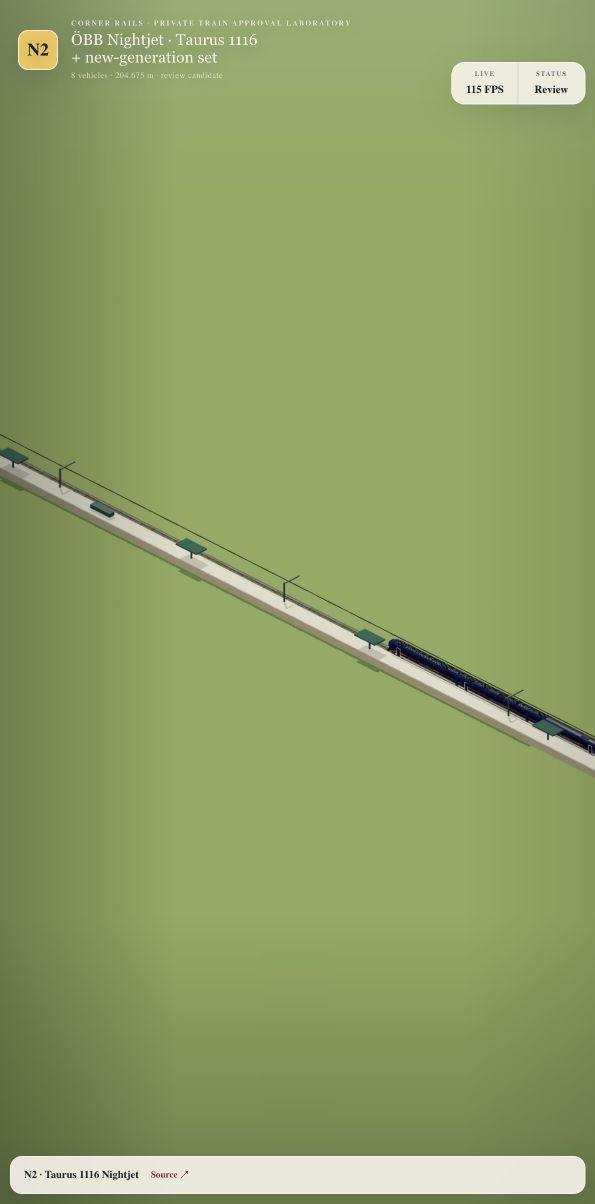
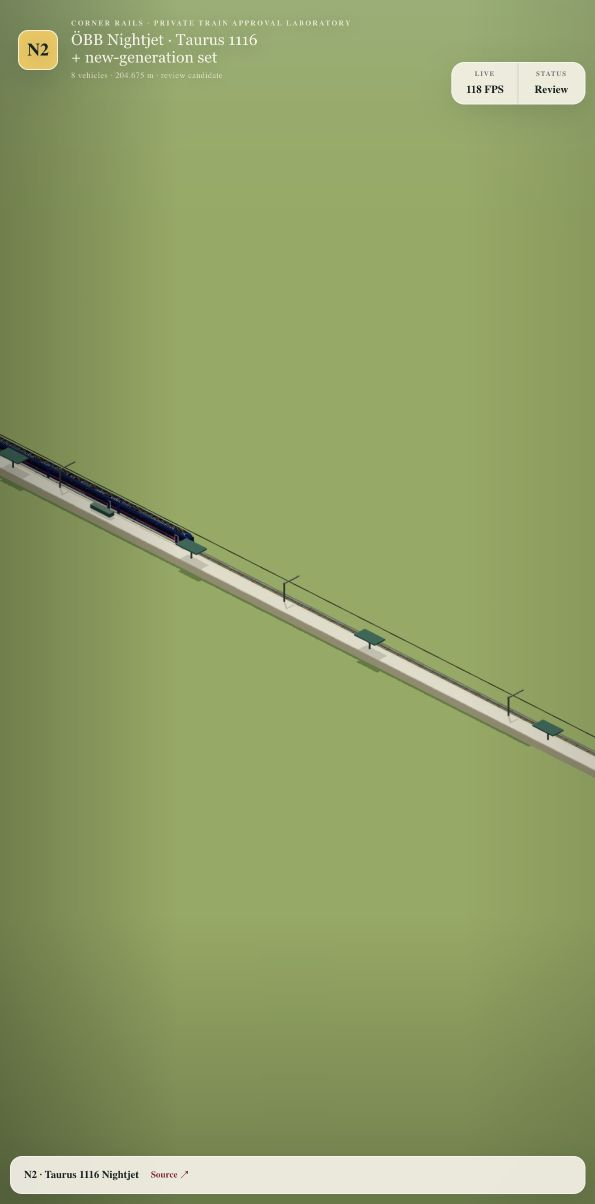
Correct Nightjet leading-end orientation

Changed region(s): [[0.6353, 0.5224, 1.0, 0.6453], [0.0, 0.3688, 0.3328, 0.461]]

diff --git a/tests/game.test.ts b/tests/game.test.ts
@@ -9,7 +9,7 @@ import {
   canPurchase,
   cleanStation,
   cleaningCost,
-  chooseTrainTravelDirection,
+  chooseTrainFormationOrientation,
   daylightFactor,
   debugState,
   isNight,
@@ -48,6 +48,7 @@ import {
 import {
   TRAIN_REVIEW_CANDIDATES,
   TRAIN_REVIEW_METRIC_SCALE,
+  trainReviewFormationRotation,
   trainReviewMotionPosition,
 } from "../app/game/trainReviewData";
 
@@ -436,9 +437,8 @@ describe("per-train Blender approval laboratory", () => {
     expect(trainReviewMotionPosition("stopping", 11)).toBe(0);
     expect(trainReviewMotionPosition("stopping", 17.99)).toBeGreaterThan(26);
     expect(trainReviewMotionPosition("pass", 3 + 1 / 60)).toBeGreaterThan(trainReviewMotionPosition("pass", 3));
-    expect(trainReviewMotionPosition("stopping", 0, -1)).toBe(27);
-    expect(trainReviewMotionPosition("stopping", 17.99, -1)).toBeLessThan(-26);
-    expect(trainReviewMotionPosition("pass", 3 + 1 / 60, -1)).toBeLessThan(trainReviewMotionPosition("pass", 3, -1));
+    expect(trainReviewFormationRotation("taurus")).toBe(0);
+    expect(trainReviewFormationRotation("cab-car")).toBe(Math.PI);
   });
 
   it("records user reference filenames without copying or embedding the images", async () => {
@@ -598,10 +598,10 @@ describe("per-train Blender approval laboratory", () => {
   });
 
   it("chooses and persists both future Nightjet leading ends deterministically", () => {
-    expect(chooseTrainTravelDirection("nightjet-new-generation", 0)[0]).toBe(1);
-    expect(chooseTrainTravelDirection("nightjet-new-generation", 999)[0]).toBe(-1);
-    expect(chooseTrainTravelDirection("nightjet-new-generation", 999)).toEqual(chooseTrainTravelDirection("nightjet-new-generation", 999));
-    expect(chooseTrainTravelDirection("nightjet-legacy-v1", 999)).toEqual([1, 999]);
+    expect(chooseTrainFormationOrientation("nightjet-new-generation", 0)[0]).toBe(1);
+    expect(chooseTrainFormationOrientation("nightjet-new-generation", 999)[0]).toBe(-1);
+    expect(chooseTrainFormationOrientation("nightjet-new-generation", 999)).toEqual(chooseTrainFormationOrientation("nightjet-new-generation", 999));
+    expect(chooseTrainFormationOrientation("nightjet-legacy-v1", 999)).toEqual([1, 999]);
   });
 });
 
@@ -897,11 +897,11 @@ describe("manual save codes", () => {
     expect(decodeSave(encodeSave(oldState)).platformLanes[0].activeTrain?.visualVariantId).toBe("railjet-classic");
   });
 
-  it("preserves the Nightjet leading end and defaults older candidate saves safely", () => {
+  it("preserves the Nightjet formation facing and migrates the interim direction field", () => {
     const activeNightjet = {
       trainId: "nightjet",
       visualVariantId: "nightjet-new-generation",
-      travelDirection: -1 as const,
+      formationOrientation: -1 as const,
       phase: "approach" as const,
       phaseElapsed: 1,
       phaseDuration: 5,
@@ -914,12 +914,18 @@ describe("manual save codes", () => {
       lengthLevel: 5,
       platformLanes: [{ platformIndex: 0, spawnCountdown: 0, activeTrain: activeNightjet }],
     };
-    expect(decodeSave(encodeSave(state)).platformLanes[0].activeTrain?.travelDirection).toBe(-1);
+    expect(decodeSave(encodeSave(state)).platformLanes[0].activeTrain?.formationOrientation).toBe(-1);
+
+    const interimState = {
+      ...state,
+      platformLanes: [{ platformIndex: 0, spawnCountdown: 0, activeTrain: { ...activeNightjet, formationOrientation: undefined, travelDirection: -1 } }],
+    } as GameState;
+    expect(decodeSave(encodeSave(interimState)).platformLanes[0].activeTrain?.formationOrientation).toBe(-1);
 
     const oldState: GameState = {
       ...state,
-      platformLanes: [{ platformIndex: 0, spawnCountdown: 0, activeTrain: { ...activeNightjet, travelDirection: undefined } }],
+      platformLanes: [{ platformIndex: 0, spawnCountdown: 0, activeTrain: { ...activeNightjet, formationOrientation: undefined } }],
     };
-    expect(decodeSave(encodeSave(oldState)).platformLanes[0].activeTrain?.travelDirection).toBe(1);
+    expect(decodeSave(encodeSave(oldState)).platformLanes[0].activeTrain?.formationOrientation).toBe(1);
   });
 });

diff --git a/app/game/Scene.tsx b/app/game/Scene.tsx
@@ -284,7 +284,7 @@ function SteamPuffs({ active }: { active: boolean }) {
 
 function TrainConsist({ active, trackCenter, speed }: { active: ActiveTrain; trackCenter: number; speed: 1 | 2 | 3 }) {
   const group = useRef<Group>(null);
-  const motion = useRef({ trainId: "", variantId: "", direction: 1, phase: "", elapsed: 0 });
+  const motion = useRef({ trainId: "", variantId: "", phase: "", elapsed: 0 });
   const train = TRAINS.find((candidate) => candidate.id === active.trainId);
   const visual = train ? resolveTrainVisualVariant(train, active.visualVariantId) : resolveTrainVisualVariant({ id: "br650", modelKey: "br650" });
   const gltf = useGLTF(trainVisualAssetUrl(visual));
@@ -293,18 +293,15 @@ function TrainConsist({ active, trackCenter, speed }: { active: ActiveTrain; tra
   const size = useMemo(() => bounds.getSize(new Vector3()), [bounds]);
   const displayLength = size.x * visual.scale[0];
   const displayWidth = size.z * visual.scale[2];
-  const direction = active.travelDirection ?? 1;
-  const leftEdge = -32 - displayLength / 2;
-  const rightEdge = 32 + displayLength / 2;
-  const entryX = direction === 1 ? leftEdge : rightEdge;
-  const exitX = direction === 1 ? rightEdge : leftEdge;
+  const formationOrientation = active.formationOrientation ?? 1;
+  const entryX = -32 - displayLength / 2;
+  const exitX = 32 + displayLength / 2;
   useFrame((_, delta) => {
     if (!group.current || !train) return;
     const rendered = motion.current;
-    if (rendered.trainId !== active.trainId || rendered.variantId !== visual.id || rendered.direction !== direction || rendered.phase !== active.phase) {
+    if (rendered.trainId !== active.trainId || rendered.variantId !== visual.id || rendered.phase !== active.phase) {
       rendered.trainId = active.trainId;
       rendered.variantId = visual.id;
-      rendered.direction = direction;
       rendered.phase = active.phase;
       rendered.elapsed = active.phaseElapsed;
     } else {
@@ -316,7 +313,7 @@ function TrainConsist({ active, trackCenter, speed }: { active: ActiveTrain; tra
   return (
     <group ref={group} position={[entryX, 0, trackCenter]}>
       <MetricContactShadow length={displayLength} width={Math.max(0.1, displayWidth * 0.88)} />
-      <group position={[0, visual.contactOffsetY, 0]} rotation={[...visual.rotation]} scale={[...visual.scale]}><Clone object={consist} castShadow receiveShadow /></group>
+      <group position={[0, visual.contactOffsetY, 0]} rotation={[visual.rotation[0], visual.rotation[1] + (formationOrientation === -1 ? Math.PI : 0), visual.rotation[2]]} scale={[...visual.scale]}><Clone object={consist} castShadow receiveShadow /></group>
       <SteamPuffs active={train.style === "steam"} />
     </group>
   );

diff --git a/app/game/simulation.ts b/app/game/simulation.ts
@@ -140,9 +140,9 @@ function chooseTrainVisualVariantId(
 }
 
 /** The Nightjet candidate is a true push-pull set. Once its visual is promoted,
- * this deterministic choice lets either the Taurus or control car lead while
- * keeping the physical consist order unchanged. */
-export function chooseTrainTravelDirection(visualVariantId: string, seed: number): [1 | -1, number] {
+ * this deterministic choice turns the complete consist so either the Taurus or
+ * control car leads along the same left-to-right operating path. */
+export function chooseTrainFormationOrientation(visualVariantId: string, seed: number): [1 | -1, number] {
   if (visualVariantId !== "nightjet-new-generation") return [1, seed];
   const [roll, nextSeed] = nextRandom(seed);
   return [roll < 0.5 ? 1 : -1, nextSeed];
@@ -185,11 +185,11 @@ function startTrain(state: GameState, platformIndex: number, forcedTrain?: Train
     ? [10, rng]
     : randomInteger(rng, train.payout[0], train.payout[1]);
   const [visualVariantId, visualSeed] = chooseTrainVisualVariantId(train, state.lengthLevel, payoutSeed);
-  const [travelDirection, directionSeed] = chooseTrainTravelDirection(visualVariantId, visualSeed);
+  const [formationOrientation, orientationSeed] = chooseTrainFormationOrientation(visualVariantId, visualSeed);
   const activeTrain: ActiveTrain = {
     trainId: train.id,
     visualVariantId,
-    ...(visualVariantId === "nightjet-new-generation" ? { travelDirection } : {}),
+    ...(visualVariantId === "nightjet-new-generation" ? { formationOrientation } : {}),
     phase: train.kind === "event" ? "pass" : "approach",
     phaseElapsed: 0,
     phaseDuration: train.kind === "event" ? (train.id === "br01" ? 14 : 10) : 5,
@@ -198,7 +198,7 @@ function startTrain(state: GameState, platformIndex: number, forcedTrain?: Train
   };
   return {
     ...updatePlatformLane(state, platformIndex, { activeTrain, spawnCountdown: 0 }),
-    rng: directionSeed,
+    rng: orientationSeed,
     lastUpgrade: state.lastUpgrade ? { ...state.lastUpgrade, undoAvailable: false } : null,
     toast: train.kind === "event"
       ? `Special event: ${train.name} is running through platform ${platformIndex + 1}!`

diff --git a/app/game/LegacyScene.tsx b/app/game/LegacyScene.tsx
@@ -485,21 +485,18 @@ function trainAssetUrl(modelKey: string) {
 
 function TrainConsist({ active, platformIndex, speed }: { active: ActiveTrain; platformIndex: number; speed: 1 | 2 | 3 }) {
   const group = useRef<Group>(null);
-  const motion = useRef({ trainId: "", direction: 1, phase: "", elapsed: 0 });
+  const motion = useRef({ trainId: "", phase: "", elapsed: 0 });
   const train = TRAINS.find((candidate) => candidate.id === active.trainId);
   const gltf = useGLTF(trainAssetUrl(train?.modelKey ?? "br650"));
   const consist = useMemo(() => gltf.scene.clone(true), [gltf.scene]);
-  const direction = active.travelDirection ?? 1;
-  const leftEdge = train ? -34 - train.cars * 1.6 : -34;
-  const rightEdge = train ? 36 + train.cars * 1.6 : 36;
-  const entryX = direction === 1 ? leftEdge : rightEdge;
-  const exitX = direction === 1 ? rightEdge : leftEdge;
+  const formationOrientation = active.formationOrientation ?? 1;
+  const entryX = train ? -34 - train.cars * 1.6 : -34;
+  const exitX = train ? 36 + train.cars * 1.6 : 36;
   useFrame((_, delta) => {
     if (!group.current) return;
     const visual = motion.current;
-    if (visual.trainId !== active.trainId || visual.direction !== direction || visual.phase !== active.phase) {
+    if (visual.trainId !== active.trainId || visual.phase !== active.phase) {
       visual.trainId = active.trainId;
-      visual.direction = direction;
       visual.phase = active.phase;
       visual.elapsed = active.phaseElapsed;
     } else {
@@ -512,7 +509,7 @@ function TrainConsist({ active, platformIndex, speed }: { active: ActiveTrain; p
   if (!train) return null;
   return (
     <group ref={group} position={[entryX, 0.25, -0.72 + platformIndex * 1.25]} scale={[1.42, 0.86, 0.86]}>
-      <Clone object={consist} castShadow />
+      <group rotation={[0, formationOrientation === -1 ? Math.PI : 0, 0]}><Clone object={consist} castShadow /></group>
       <SteamPuffs active={train.style === "steam"} />
     </group>
   );

diff --git a/app/game/trainReviewData.ts b/app/game/trainReviewData.ts
@@ -69,19 +69,23 @@ export function trainReviewAssetUrl(candidate: TrainReviewCandidate) {
   return `${candidate.assetPath}?v=${candidate.assetRevision}`;
 }
 
-export function trainReviewMotionPosition(mode: TrainReviewMotion, elapsedSeconds: number, direction: 1 | -1 = 1) {
+export function trainReviewMotionPosition(mode: TrainReviewMotion, elapsedSeconds: number) {
   if (mode === "stationary") return 0;
   if (mode === "pass") {
     const progress = (elapsedSeconds % 12) / 12;
     const eased = progress * progress * (3 - 2 * progress);
-    return direction * (-27 + eased * 54);
+    return -27 + eased * 54;
   }
   const cycle = elapsedSeconds % 18;
   if (cycle < 5) {
     const progress = cycle / 5;
-    return direction * (-27 + 27 * (1 - Math.pow(1 - progress, 3)));
+    return -27 + 27 * (1 - Math.pow(1 - progress, 3));
   }
   if (cycle < 11) return 0;
   const progress = (cycle - 11) / 7;
-  return direction * 27 * progress * progress;
+  return 27 * progress * progress;
+}
+
+export function trainReviewFormationRotation(leadingEnd: TrainReviewLeadingEnd) {
+  return leadingEnd === "cab-car" ? Math.PI : 0;
 }

diff --git a/app/game/save.ts b/app/game/save.ts
@@ -49,8 +49,12 @@ function isValidState(value: unknown): value is GameState {
 
 function normalizeActiveTrain(activeTrain: ActiveTrain | null | undefined): ActiveTrain | null {
   if (!activeTrain) return null;
-  if (activeTrain.visualVariantId === "nightjet-new-generation" && activeTrain.travelDirection !== -1) {
-    return { ...activeTrain, travelDirection: 1 };
+  if (activeTrain.visualVariantId === "nightjet-new-generation") {
+    const interimDirection = (activeTrain as ActiveTrain & { travelDirection?: 1 | -1 }).travelDirection;
+    const formationOrientation = activeTrain.formationOrientation === -1 || interimDirection === -1 ? -1 : 1;
+    const normalized = { ...activeTrain } as ActiveTrain & { travelDirection?: 1 | -1 };
+    delete normalized.travelDirection;
+    return { ...normalized, formationOrientation };
   }
   if (activeTrain.trainId === "railjet" && !activeTrain.visualVariantId) {
     return { ...activeTrain, visualVariantId: "railjet-classic" };

diff --git a/app/game/TrainReviewLab.tsx b/app/game/TrainReviewLab.tsx
@@ -20,6 +20,7 @@ import {
   TRAIN_REVIEW_CANDIDATES,
   TRAIN_REVIEW_METRIC_SCALE,
   trainReviewAssetUrl,
+  trainReviewFormationRotation,
   trainReviewMotionPosition,
   type TrainReviewAtmosphere,
   type TrainReviewCandidate,
@@ -144,11 +145,10 @@ function MovingCandidate({
   useFrame(({ clock }) => {
     if (!group.current) return;
     const elapsed = freezeMotion ? capturePhaseSeconds : clock.elapsedTime + capturePhaseSeconds;
-    const direction = leadingEnd === "taurus" ? 1 : -1;
-    group.current.position.x = trainReviewMotionPosition(motion, elapsed + laneIndex * 2.1, direction);
+    group.current.position.x = trainReviewMotionPosition(motion, elapsed + laneIndex * 2.1);
   });
   return (
-    <group ref={group} position={[0, 0, laneZ]}>
+    <group ref={group} position={[0, 0, laneZ]} rotation={[0, trainReviewFormationRotation(leadingEnd), 0]}>
       <CandidateFormation candidate={candidate} />
     </group>
   );

diff --git a/app/game/types.ts b/app/game/types.ts
@@ -53,8 +53,8 @@ export interface TrainDefinition {
 export interface ActiveTrain {
   trainId: string;
   visualVariantId?: string;
-  /** Persisted direction of travel. +1 enters from the left; -1 enters from the right. */
-  travelDirection?: 1 | -1;
+  /** Persisted formation facing. +1 keeps the exported order; -1 turns the whole consist 180 degrees. */
+  formationOrientation?: 1 | -1;
   phase: "approach" | "dwell" | "depart" | "pass";
   phaseElapsed: number;
   phaseDuration: number;

diff --git a/docs/QA_REPORT.md b/docs/QA_REPORT.md
@@ -38,9 +38,9 @@ The private `?trainLab=db-regional-express` route was exercised at desktop and 3
 
 The second per-train approval branch adds an editable Blender 5.2 master, six modular GLBs and one eight-vehicle formation: Taurus 1116, two sleeping cars, three couchette cars, multifunction car and control/seat car. N2 redraws the Taurus side treatment as layered, mirrored red and silver geometry sweeps with matching cab blocks and nose belts. The full optimized GLB is 238,364 bytes. The user references are recorded by filename but are neither copied nor embedded; recognition details use original geometry and material colour blocking without protected logos or photo textures.
 
-Forty-three focused automated tests pass. Candidate-specific coverage verifies the exact eight-root formation, 204.7–205.1 m exported bounds including couplers, 64 standard-gauge wheel objects, wheel contact at Z=0, 5.5 m pantograph contact, a named rail-contact origin, Taurus roof/vent and N2 livery-sweep signatures, the distinct control-car windshield/grille, sleeping/couchette/multifunction window signatures, the 500 KB budget, all nine reference filenames and `productionRegistryModified: false`. Direction coverage verifies deterministic Taurus-leading/cab-car-leading selection, mirrored review motion, save-code persistence and a safe default for older candidate saves. The normal Tier 5 Nightjet remains `legacy-v1`, so the new direction selection will activate only after an approved production promotion.
+Forty-three focused automated tests pass. Candidate-specific coverage verifies the exact eight-root formation, 204.7–205.1 m exported bounds including couplers, 64 standard-gauge wheel objects, wheel contact at Z=0, 5.5 m pantograph contact, a named rail-contact origin, Taurus roof/vent and N2 livery-sweep signatures, the distinct control-car windshield/grille, sleeping/couchette/multifunction window signatures, the 500 KB budget, all nine reference filenames and `productionRegistryModified: false`. Orientation coverage verifies deterministic Taurus-leading/cab-car-leading selection, a shared motion path with a 180-degree consist turn, save-code persistence and migration of the interim direction field. The normal Tier 5 Nightjet remains `legacy-v1`, so the new orientation selection will activate only after an approved production promotion.
 
-The private `?trainLab=nightjet-new-generation` route was exercised at 1440×900 and 390×844 in stationary, stopping, fixed-phase pass-through, day, night, rain, inspection and three-simultaneous-formation states. N2 was additionally captured at the same pass-through phase with the Taurus leading from the left and the cab car leading from the right. The semantic control updates its pressed state and the `leading` URL parameter. The asset loaded without WebGL or loading errors. Console review found only Three.js's existing `Clock` deprecation warning. Mobile evidence verifies responsive layout, not physical-device GPU performance.
+The private `?trainLab=nightjet-new-generation` route was exercised at 1440×900 and 390×844 in stationary, stopping, fixed-phase pass-through, day, night, rain, inspection and three-simultaneous-formation states. N2 was additionally captured twice at the identical pass-through phase and track position: once in exported orientation with the Taurus leading and once turned 180 degrees with the cab car leading. Both enter from the left and travel right. The semantic control updates its pressed state and the `leading` URL parameter. The asset loaded without WebGL or loading errors. Console review found only Three.js's existing `Clock` deprecation warning. Mobile evidence verifies responsive layout, not physical-device GPU performance.
 
 ## Automated acceptance coverage
 

diff --git a/docs/ASSET_INVENTORY.md b/docs/ASSET_INVENTORY.md
@@ -29,7 +29,7 @@ Every other train remains on a temporary `legacy-v1` presentation profile. Those
 
 The DB Regional-Express R1 set is the first use of that process after Railjet. Its complete formation is about 157 KB after glTF Transform deduplication/pruning; its four reusable module GLBs are about 43–48 KB each. It is available only through `?trainLab=db-regional-express`. Its manifest records the supplied filenames but none of the local photographs are copied, embedded, served or used as textures. The candidate is deliberately unassigned to a production train record because the references depict a locomotive-hauled BR 245/Dosto set, not the current Siemens Desiro HC record. Production mapping will be decided only after visual approval.
 
-The Nightjet N2 set is the next isolated review candidate. Its complete 204.675 m modeled formation is about 238 KB after glTF Transform deduplication/pruning; six reusable module GLBs cover the Taurus, two sleeper layouts, couchette, multifunction car and control/seat car at roughly 37–44 KB each. N2 redraws the Taurus with mirrored geometry-only red and silver sweeps, cab blocks and nose belts derived from the supplied appearance references. It is available only through `?trainLab=nightjet-new-generation`, where Taurus-leading and cab-car-leading pass-through directions can be reviewed separately. The manifest records the nine supplied filenames, but the images remain research-only and are not copied, embedded, served or used as textures. The normal Tier 5 Nightjet remains on its existing `legacy-v1` asset until explicit visual approval.
+The Nightjet N2 set is the next isolated review candidate. Its complete 204.675 m modeled formation is about 238 KB after glTF Transform deduplication/pruning; six reusable module GLBs cover the Taurus, two sleeper layouts, couchette, multifunction car and control/seat car at roughly 37–44 KB each. N2 redraws the Taurus with mirrored geometry-only red and silver sweeps, cab blocks and nose belts derived from the supplied appearance references. It is available only through `?trainLab=nightjet-new-generation`, where Taurus-leading and cab-car-leading orientations can be reviewed on the same left-to-right pass-through path. The manifest records the nine supplied filenames, but the images remain research-only and are not copied, embedded, served or used as textures. The normal Tier 5 Nightjet remains on its existing `legacy-v1` asset until explicit visual approval.
 
 ## Planned assets
 

diff --git a/docs/TRAIN_SOURCES.md b/docs/TRAIN_SOURCES.md
@@ -46,7 +46,7 @@ The user supplied nine appearance references on **2026-08-21**, identified by fi
 
 The N2 review formation uses one ÖBB Class 1116 Taurus plus the coherent seven-car Siemens Nightjet new-generation set: control/seat car, multifunction car, three couchette cars and two sleeping cars. Siemens' [new-generation Nightjet presentation](https://press.siemens.com/global/en/pressrelease/obb-and-siemens-mobility-present-interior-design-next-generation-nightjet) explicitly records the two seating, three couchette and two sleeping cars. Siemens' earlier [Viaggio framework agreement](https://press.siemens.com/global/en/pressrelease/obb-and-siemens-mobility-sign-framework-agreement-passenger-coaches-austria) establishes compatibility with ÖBB's Taurus fleet. ÖBB's official [Class 1116 technical sheet](https://produktion.oebb.at/dam/jcr%3A47dbe927-74ea-47fd-abc2-253c45498ac1/1116.pdf) supplies the 19.28 m locomotive dimension, Bo'Bo' arrangement, 230 km/h top speed and 1.435 m gauge. The supplied Taurus corner, side and front-side references were rechecked for N2's geometry-only red/silver side sweep and cab-end colour blocks; no photographed pixels are shipped.
 
-The candidate does not mix the new-generation control car with old Nightjet stock. Its 204.675 m value is the project's modeled length from one 19.28 m locomotive, seven 26.4 m coach bodies and modeled inter-vehicle gaps; it is not presented as an operator-published total. The fixed push-pull consist can travel in either direction, making the Taurus or control car the leading end without rotating the vehicle order. This remains a private review candidate. The existing production Nightjet asset and gameplay values are unchanged pending approval.
+The candidate does not mix the new-generation control car with old Nightjet stock. Its 204.675 m value is the project's modeled length from one 19.28 m locomotive, seven 26.4 m coach bodies and modeled inter-vehicle gaps; it is not presented as an operator-published total. The fixed push-pull consist can make either the Taurus or control car the leading end. In the game review both versions use the same entry side and motion path; the complete formation is turned 180 degrees for the cab-car-leading presentation. This remains a private review candidate. The existing production Nightjet asset and gameplay values are unchanged pending approval.
 
 ## Implemented complete-consist visual-recognition pass
 
